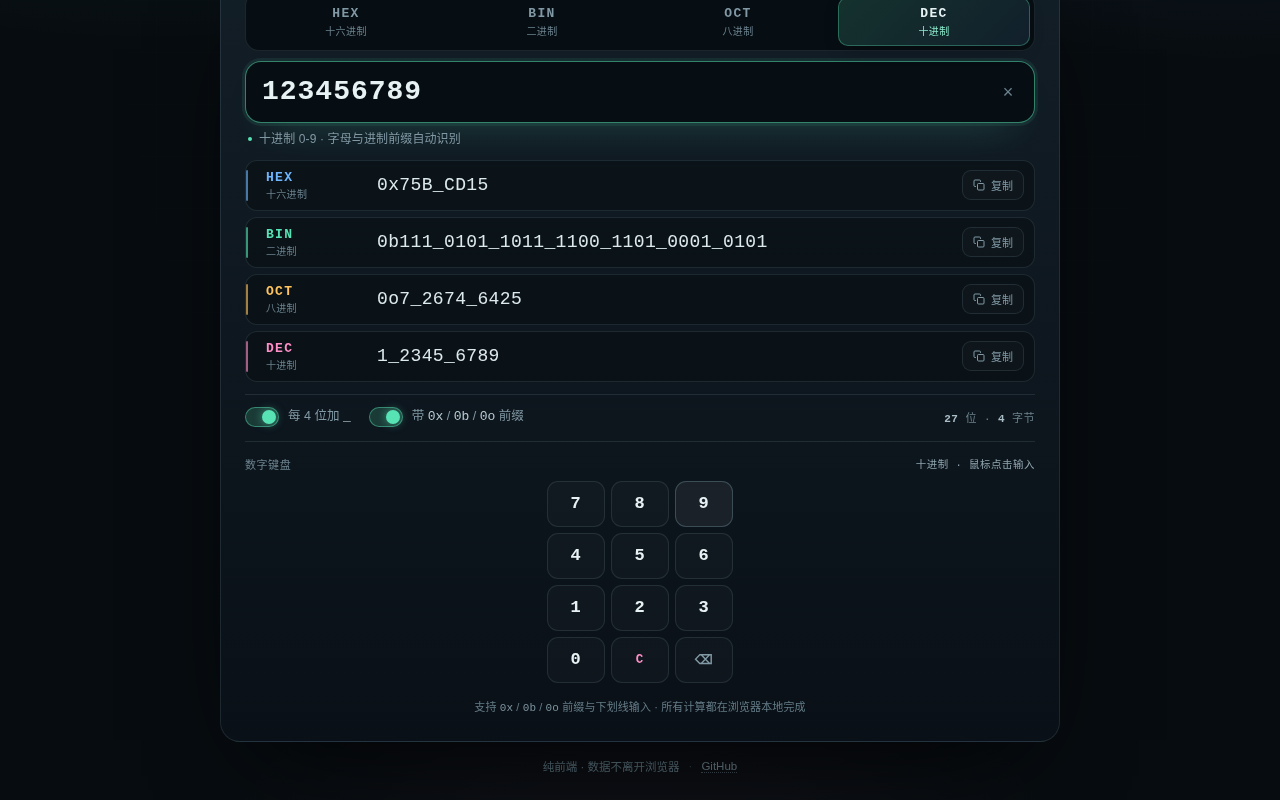
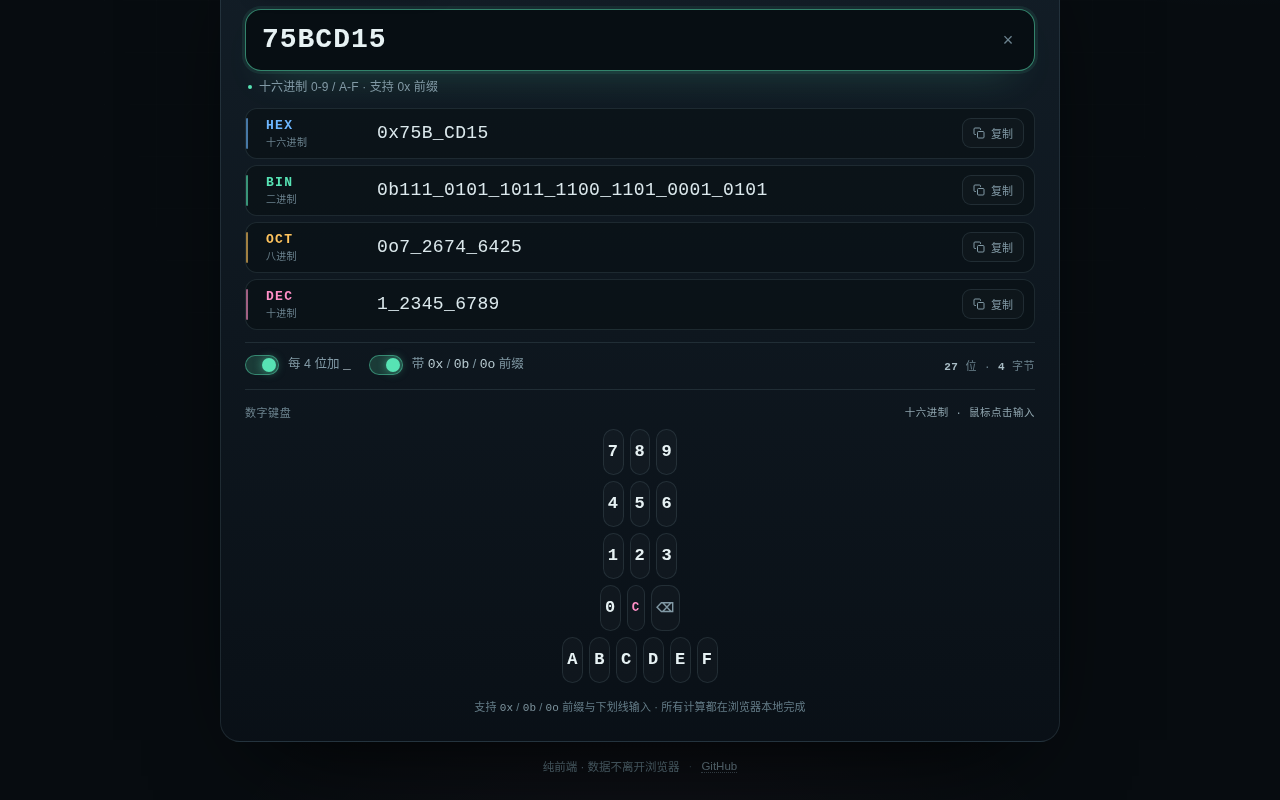
feat: HEX 键盘 A-F 单独占一行（显式行布局），并修复十六进制 C 键与清空键冲突
- converter.js: 每个进制改为显式 rows 行布局；动作键用 CLEAR/BACK 标记
  避免与十六进制数字 C 冲突；HEX 在数字小键盘下方另起一行显示 A-F
- index.html: .pad 改为 flex 列 + .pad-row 行渲染，padButton 区分
  数字键/动作键
- test_converter.js: 新增 rowsFor 单元测试（含 A-F 独立行断言）
- README/preview: 更新

diff --git a/index.html b/index.html
@@ -537,12 +537,19 @@
   }
 
   .pad {
-    display: grid;
-    grid-template-columns: repeat(var(--pad-columns, 5), 58px);
+    display: flex;
+    flex-direction: column;
+    align-items: center;
     gap: 6px;
     width: fit-content;
     margin: 0 auto;
     touch-action: manipulation;
+  }
+
+  .pad-row {
+    display: flex;
+    justify-content: center;
+    gap: 6px;
   }
 
   .pad button {
@@ -589,7 +596,8 @@
   .pad button.fn.danger { color: var(--pink); }
 
   @media (max-width: 640px) {
-    .pad { grid-template-columns: repeat(var(--pad-columns, 5), 44px); gap: 5px; }
+    .pad { gap: 5px; }
+    .pad-row { gap: 5px; }
     .pad button { min-height: 44px; font-size: 15px; }
     .pad button.fn { font-size: 11px; }
   }
@@ -851,25 +859,35 @@
       assist.classList.toggle('ok', kind === 'ok');
     }
 
+    function padButton(cell) {
+      // 'CLEAR' / 'BACK' are action markers (labels render as C / ⌫); a real
+      // digit 'C' (hex) is treated as a key, never as the clear action.
+      var isClear = cell === 'CLEAR';
+      var isBack = cell === 'BACK';
+      var label = isClear ? 'C' : (isBack ? '⌫' : cell);
+      var cls = isClear ? ' fn danger' : (isBack ? ' fn' : '');
+      var action = isClear ? ' data-action="clear"' : (isBack ? ' data-action="back"' : '');
+      var aria = isClear ? '清空输入' : (isBack ? '退格' : '输入 ' + cell);
+      var keyAttr = isClear || isBack ? '' : ' data-key="' + cell + '"';
+      return '<button type="button" class="' + cls + '"' + keyAttr + action + ' aria-label="' + aria + '">' + label + '</button>';
+    }
+
     function renderPad() {
       if (!pad) return;
-      if (typeof Core.keysFor !== 'function') return;
-      var keys = Core.keysFor(state.base);
-      var columns = (typeof Core.columnsFor === 'function' ? Core.columnsFor(state.base) : 5);
-      pad.style.setProperty('--pad-columns', String(columns));
+      if (typeof Core.rowsFor !== 'function' && typeof Core.keysFor !== 'function') return;
 
-      // Digit keys flow row by row; C and ⌫ fill the remaining cells of the
-      // last row (or get their own row when keys are a full multiple).
-      var cells = keys.concat(['C', '⌫']);
+      var rows = (typeof Core.rowsFor === 'function')
+        ? Core.rowsFor(state.base)
+        : [Core.keysFor(state.base).concat(['CLEAR', 'BACK'])];
+
       var html = '';
-      for (var i = 0; i < cells.length; i += 1) {
-        var cell = cells[i];
-        var cls = cell === 'C' ? ' fn danger' : (cell === '⌫' ? ' fn' : '');
-        var action = cell === 'C' ? ' data-action="clear"' : (cell === '⌫' ? ' data-action="back"' : '');
-        var aria = cell === 'C' ? '清空输入' : (cell === '⌫' ? '退格' : '输入 ' + cell);
-        var keyAttr = cell === 'C' || cell === '⌫' ? '' : ' data-key="' + cell + '"';
-        html += '<button type="button" class="' + cls + '"' + keyAttr + action + ' aria-label="' + aria + '">' + cell + '</button>';
-      }
+      rows.forEach(function (row) {
+        html += '<div class="pad-row">';
+        row.forEach(function (cell) {
+          html += padButton(cell);
+        });
+        html += '</div>';
+      });
       pad.innerHTML = html;
       if (padHint) padHint.textContent = Core.BASES[state.base].label + ' · 鼠标点击输入';
     }

diff --git a/converter.js b/converter.js
@@ -27,7 +27,16 @@
       pattern: /^[0-9a-fA-F]+$/,
       charPattern: /^[0-9a-fA-F]$/,
       keys: ['0', '1', '2', '3', '4', '5', '6', '7', '8', '9', 'A', 'B', 'C', 'D', 'E', 'F'],
-      columns: 6
+      columns: 6,
+      // 动作键用 'CLEAR' / 'BACK' 标记，避免与十六进制数字 C 冲突。
+      // A-F 单独占一行（用户要求：ABCDEF 另起一行）。
+      rows: [
+        ['7', '8', '9'],
+        ['4', '5', '6'],
+        ['1', '2', '3'],
+        ['0', 'CLEAR', 'BACK'],
+        ['A', 'B', 'C', 'D', 'E', 'F']
+      ]
     },
     BIN: {
       name: 'BIN',
@@ -39,7 +48,8 @@
       pattern: /^[01]+$/,
       charPattern: /^[01]$/,
       keys: ['0', '1'],
-      columns: 4
+      columns: 4,
+      rows: [['0', '1'], ['CLEAR', 'BACK']]
     },
     OCT: {
       name: 'OCT',
@@ -51,7 +61,8 @@
       pattern: /^[0-7]+$/,
       charPattern: /^[0-7]$/,
       keys: ['0', '1', '2', '3', '4', '5', '6', '7'],
-      columns: 5
+      columns: 5,
+      rows: [['0', '1', '2', '3'], ['4', '5', '6', '7'], ['CLEAR', 'BACK']]
     },
     DEC: {
       name: 'DEC',
@@ -63,7 +74,8 @@
       pattern: /^[0-9]+$/,
       charPattern: /^[0-9]$/,
       keys: ['7', '8', '9', '4', '5', '6', '1', '2', '3', '0'],
-      columns: 3
+      columns: 3,
+      rows: [['7', '8', '9'], ['4', '5', '6'], ['1', '2', '3'], ['0', 'CLEAR', 'BACK']]
     }
   };
 
@@ -287,6 +299,19 @@
     return def.columns || 5;
   }
 
+  /**
+   * Explicit row layout for the pad. Each entry is one row (array of key
+   * labels; 'C' and '⌫' are the clear / backspace actions). Falls back to a
+   * single row of the flat keys when no rows are defined.
+   */
+  function rowsFor(base) {
+    var def = BASES[base] ? BASES[base] : BASES.DEC;
+    if (def.rows && def.rows.length) {
+      return def.rows.map(function (row) { return row.slice(); });
+    }
+    return [def.keys.slice()];
+  }
+
   return {
     BASE_ORDER: BASE_ORDER,
     BASES: BASES,
@@ -300,6 +325,7 @@
     bitLength: bitLength,
     convert: convert,
     keysFor: keysFor,
-    columnsFor: columnsFor
+    columnsFor: columnsFor,
+    rowsFor: rowsFor
   };
 });

diff --git a/test_converter.js b/test_converter.js
@@ -186,4 +186,20 @@ check('columnsFor returns a fixed grid column count per base', () => {
   assert.strictEqual(C.columnsFor('BOGUS'), 3, 'unknown base falls back to DEC columns');
 });
 
+check('rowsFor returns explicit row layout per base', () => {
+  assert.deepStrictEqual(C.rowsFor('DEC'), [['7','8','9'],['4','5','6'],['1','2','3'],['0','CLEAR','BACK']]);
+  assert.deepStrictEqual(C.rowsFor('BIN'), [['0','1'],['CLEAR','BACK']]);
+  assert.deepStrictEqual(C.rowsFor('OCT'), [['0','1','2','3'],['4','5','6','7'],['CLEAR','BACK']]);
+  const hexRows = C.rowsFor('HEX');
+  assert.strictEqual(hexRows.length, 5);
+  assert.deepStrictEqual(hexRows[4], ['A','B','C','D','E','F'], 'A-F is its own (last) row');
+  // the C in A-F row is a real digit, not the clear action marker
+  assert.notStrictEqual(hexRows[4].indexOf('C'), -1);
+  // returns fresh copies
+  assert.notStrictEqual(C.rowsFor('HEX'), C.rowsFor('HEX'));
+  assert.notStrictEqual(C.rowsFor('HEX')[0], C.rowsFor('HEX')[0]);
+  // unknown base falls back to DEC
+  assert.deepStrictEqual(C.rowsFor('BOGUS'), C.rowsFor('DEC'));
+});
+
 console.log('\nAll ' + passed + ' test groups passed.');

diff --git a/README.md b/README.md
@@ -10,7 +10,7 @@ HEX / BIN / OCT / DEC 四种进制实时互转，支持每 4 位自动插入 `_`
 
 - **输入即转换**：边输入边出结果，无需点「转换」按钮；四个结果紧贴在输入框下方，桌面端打开页面自动聚焦输入框。
 - **手机键盘友好**：聚焦输入框时自动把输入区滚到顶部，四行结果始终落在软键盘上方，不用手动滚动。
-- **鼠标数字键盘**：输入框下方有一块可点击的**数字小键盘**，按**标准小键盘网格**排布（DEC 为 3 列：`7 8 9 / 4 5 6 / 1 2 3 / 0`），HEX 6 列、BIN 4 列、OCT 5 列，按键随当前进制变化（DEC 为 0-9，HEX 额外显示 A-F，BIN 只有 0/1，OCT 为 0-7），`C` 清空、`⌫` 退格，点击即可输入。
+- **鼠标数字键盘**：输入框下方有一块可点击的**数字小键盘**，按**显式行**排布（DEC 为 `7 8 9 / 4 5 6 / 1 2 3 / 0 C ⌫`）；HEX 在小键盘下方**另起一行**显示 `A B C D E F`，BIN 为 `0 1 / C ⌫`，OCT 为 `0 1 2 3 / 4 5 6 7 / C ⌫`。按键随当前进制变化，`C` 清空、`⌫` 退格，点击即可输入。
 - **智能识别**：输入 `0xFF`、`0b1010`、`0o777` 会自动切到对应进制；直接输入 `DEADBEEF` 这类带 A-F 的值也会自动按 HEX 处理。
 - **四种进制同屏显示**：十六进制（HEX）、二进制（BIN）、八进制（OCT）、十进制（DEC）。
 - **4 位分组**：默认每 4 位插入一个下划线，从最低位向左分组：
